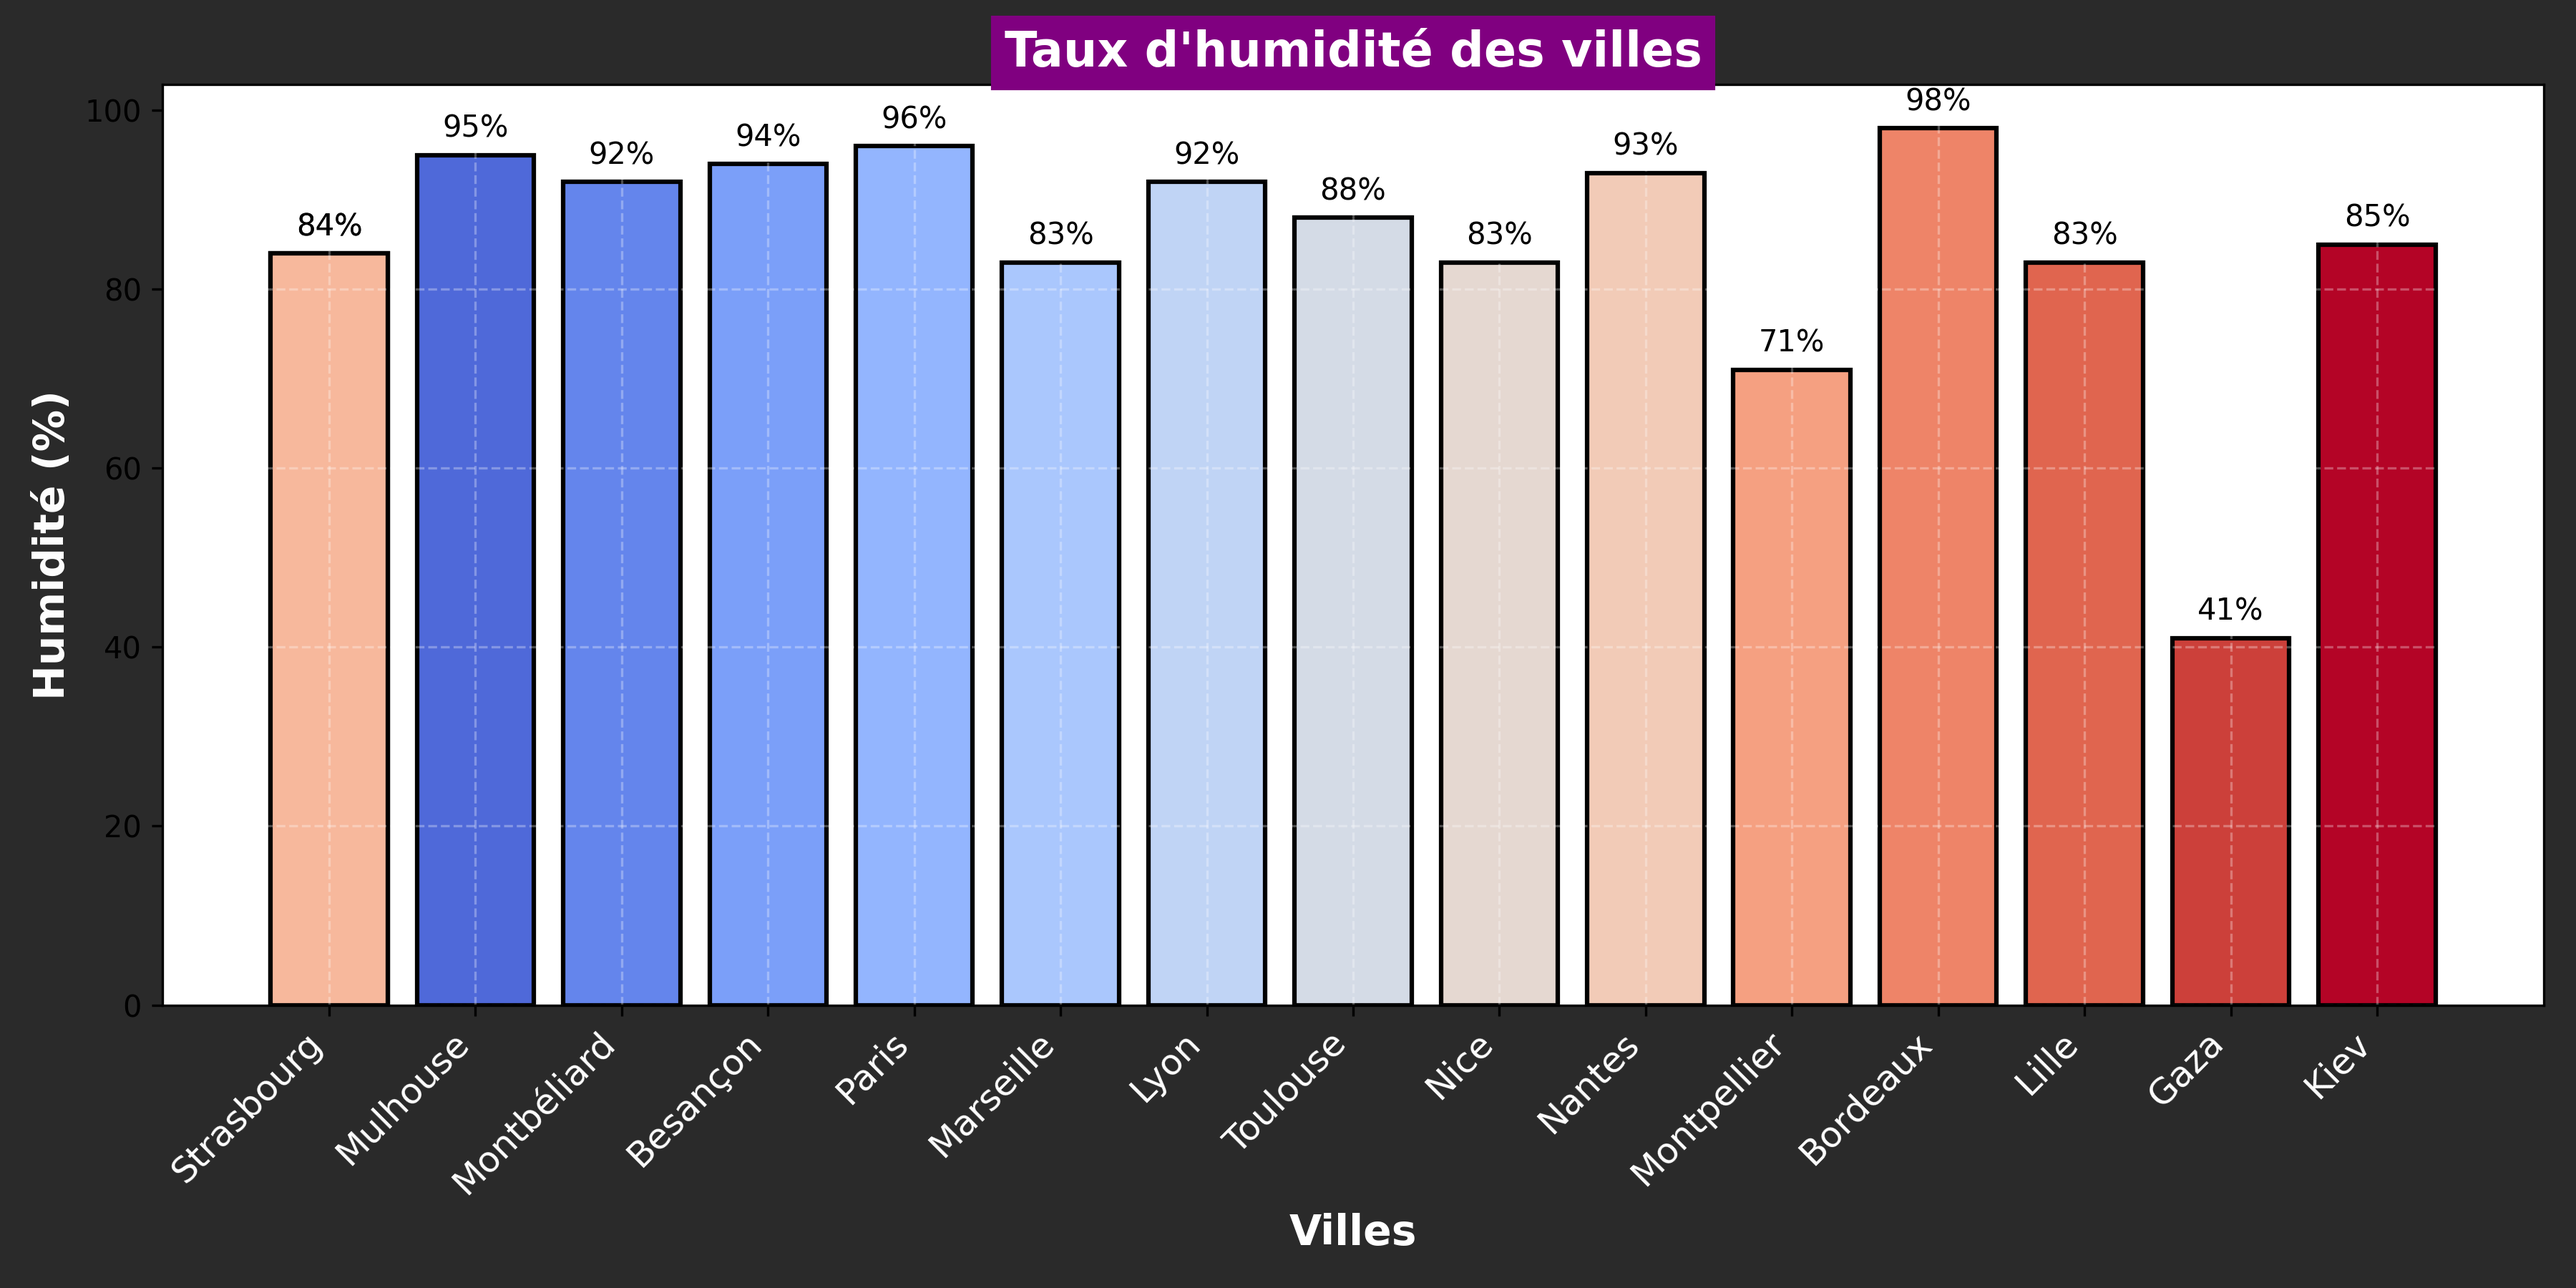
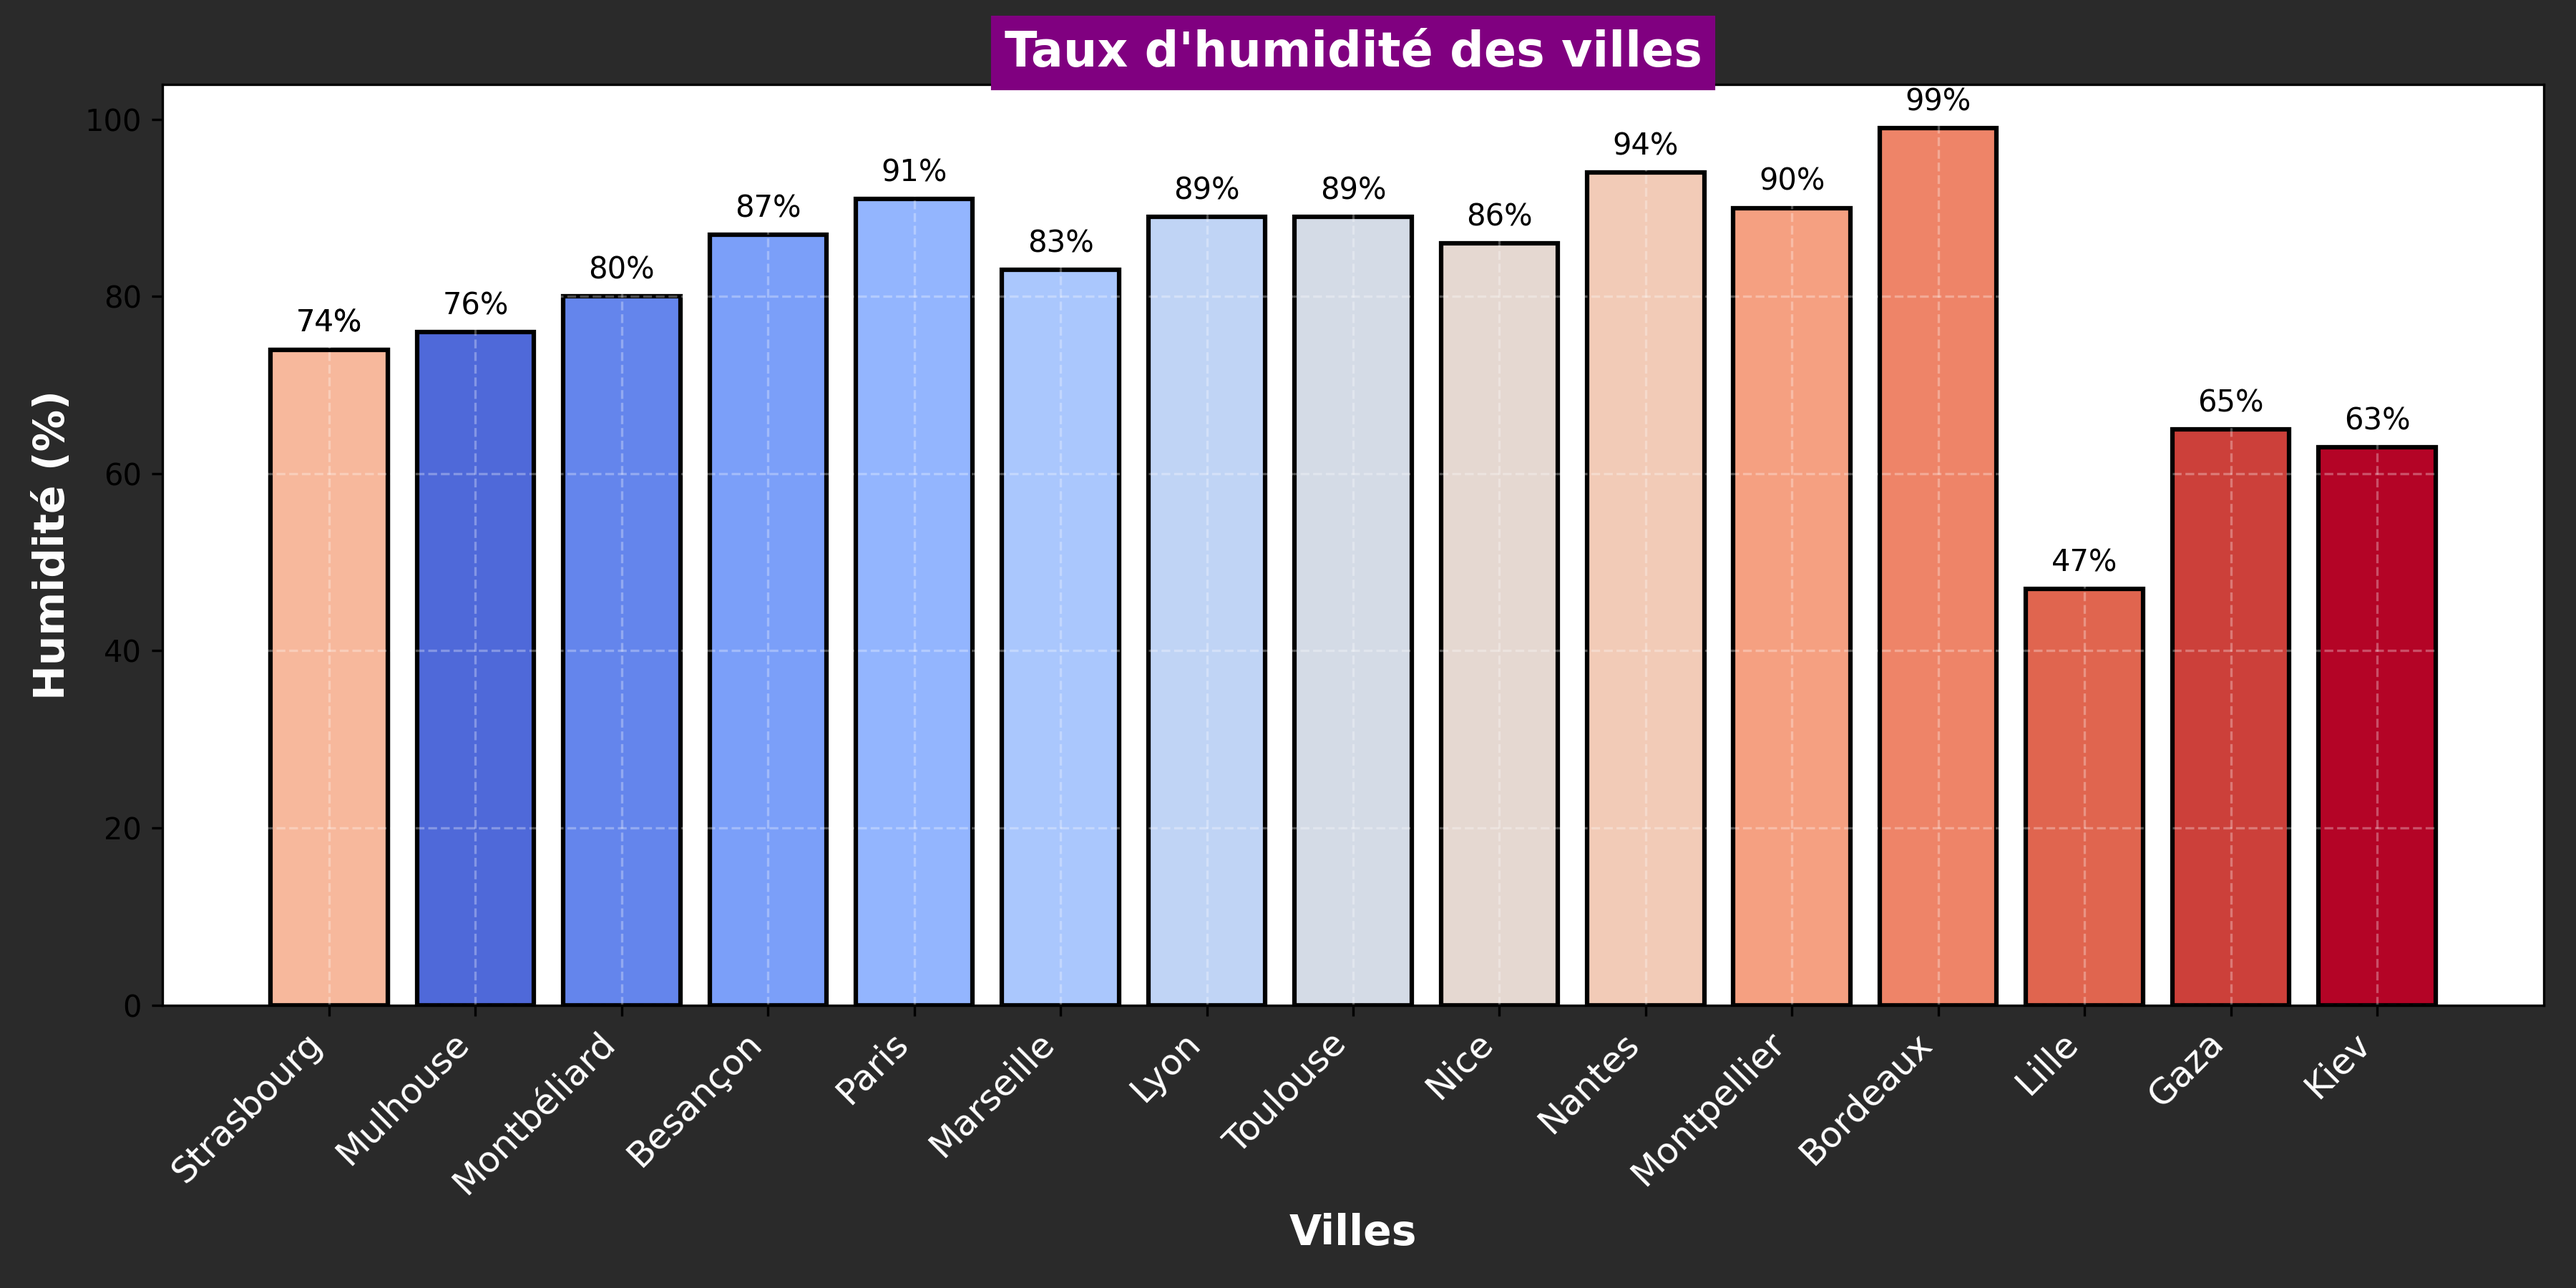
Mise à jour de la météo et ajout du graphique d'humidité

diff --git a/README.md b/README.md
@@ -24,103 +24,103 @@ Ce repo contient plusieurs workflows GitHub Actions :
 ## Météo actuelle :
 ## Météo des grandes villes + Gaza et Kiev 🌍
 
-🕒 Mise à jour : 13/05/2025 08:17:52
+🕒 Mise à jour : 14/05/2025 08:17:44
 
-### 🌍 Strasbourg 🌥
-**Conditions :** nuageux
-**Température :** 11.71°C
-**Humidité :** 84%
-**Vent :** 0.36 m/s
+### 🌍 Strasbourg ☀
+**Conditions :** ciel dégagé
+**Température :** 12.55°C
+**Humidité :** 74%
+**Vent :** 0.33 m/s
 
-### 🌍 Mulhouse 🌥
-**Conditions :** couvert
-**Température :** 11.99°C
-**Humidité :** 95%
-**Vent :** 0.06 m/s
+### 🌍 Mulhouse ☀
+**Conditions :** ciel dégagé
+**Température :** 12.31°C
+**Humidité :** 76%
+**Vent :** 0.94 m/s
 
 ### 🌍 Montbéliard 🌥
-**Conditions :** couvert
-**Température :** 12.77°C
-**Humidité :** 92%
-**Vent :** 1.04 m/s
+**Conditions :** peu nuageux
+**Température :** 13.88°C
+**Humidité :** 80%
+**Vent :** 1.15 m/s
 
-### 🌍 Besançon 🌥
-**Conditions :** couvert
-**Température :** 12.44°C
-**Humidité :** 94%
-**Vent :** 1 m/s
+### 🌍 Besançon ☀
+**Conditions :** ciel dégagé
+**Température :** 11.05°C
+**Humidité :** 87%
+**Vent :** 0.54 m/s
 
 ### 🌍 Paris 🌥
-**Conditions :** couvert
-**Température :** 11.85°C
-**Humidité :** 96%
-**Vent :** 0.32 m/s
+**Conditions :** partiellement nuageux
+**Température :** 12.96°C
+**Humidité :** 91%
+**Vent :** 0.89 m/s
 
-### 🌍 Marseille 🌥
-**Conditions :** nuageux
-**Température :** 13.62°C
-**Humidité :** 83%
-**Vent :** 0.97 m/s
-
-### 🌍 Lyon ☀
+### 🌍 Marseille ☀
 **Conditions :** ciel dégagé
-**Température :** 9.95°C
-**Humidité :** 92%
-**Vent :** 0.81 m/s
+**Température :** 11.95°C
+**Humidité :** 83%
+**Vent :** 1.5 m/s
+
+### 🌍 Lyon 🌥
+**Conditions :** nuageux
+**Température :** 10.3°C
+**Humidité :** 89%
+**Vent :** 0.59 m/s
 
 ### 🌍 Toulouse 🌥
-**Conditions :** nuageux
-**Température :** 12.34°C
-**Humidité :** 88%
-**Vent :** 0.57 m/s
+**Conditions :** partiellement nuageux
+**Température :** 12.66°C
+**Humidité :** 89%
+**Vent :** 1.49 m/s
 
 ### 🌍 Nice 🌥
 **Conditions :** partiellement nuageux
 **Température :** 10.28°C
-**Humidité :** 83%
-**Vent :** 0.92 m/s
+**Humidité :** 86%
+**Vent :** 1.12 m/s
 
-### 🌍 Nantes 🌧
-**Conditions :** légère pluie
-**Température :** 12.22°C
-**Humidité :** 93%
-**Vent :** 3.83 m/s
-
-### 🌍 Strasbourg 🌥
+### 🌍 Nantes 🌥
 **Conditions :** nuageux
-**Température :** 11.71°C
-**Humidité :** 84%
-**Vent :** 0.36 m/s
+**Température :** 11.11°C
+**Humidité :** 94%
+**Vent :** 1.51 m/s
 
-### 🌍 Montpellier 🌥
-**Conditions :** nuageux
-**Température :** 16.39°C
-**Humidité :** 71%
-**Vent :** 1.71 m/s
+### 🌍 Strasbourg ☀
+**Conditions :** ciel dégagé
+**Température :** 12.55°C
+**Humidité :** 74%
+**Vent :** 0.33 m/s
+
+### 🌍 Montpellier ☀
+**Conditions :** ciel dégagé
+**Température :** 14.72°C
+**Humidité :** 90%
+**Vent :** 2.58 m/s
 
 ### 🌍 Bordeaux 🌥
 **Conditions :** couvert
-**Température :** 13.49°C
-**Humidité :** 98%
-**Vent :** 1.1 m/s
+**Température :** 12.94°C
+**Humidité :** 99%
+**Vent :** 1.46 m/s
 
-### 🌍 Lille 🌥
-**Conditions :** nuageux
-**Température :** 14.14°C
-**Humidité :** 83%
-**Vent :** 0.72 m/s
+### 🌍 Lille ☀
+**Conditions :** ciel dégagé
+**Température :** 14.56°C
+**Humidité :** 47%
+**Vent :** 2.27 m/s
 
-### 🌍 Gaza 🌥
-**Conditions :** peu nuageux
-**Température :** 24.18°C
-**Humidité :** 41%
-**Vent :** 4.2 m/s
+### 🌍 Gaza ☀
+**Conditions :** ciel dégagé
+**Température :** 22.72°C
+**Humidité :** 65%
+**Vent :** 3.75 m/s
 
 ### 🌍 Kiev 🌥
-**Conditions :** couvert
-**Température :** 8.05°C
-**Humidité :** 85%
-**Vent :** 3.44 m/s
+**Conditions :** peu nuageux
+**Température :** 10.26°C
+**Humidité :** 63%
+**Vent :** 3.01 m/s
 
 <p align='center'><img src='https://raw.githubusercontent.com/khoa083/khoa/main/Khoa_ne/img/Rainbow.gif' width='100%' style='border-radius: 5px; border: 3px solid #39FF14; box-shadow: 0 0 10px #39FF14, 0 0 20px #39FF14;' /></p>
 
